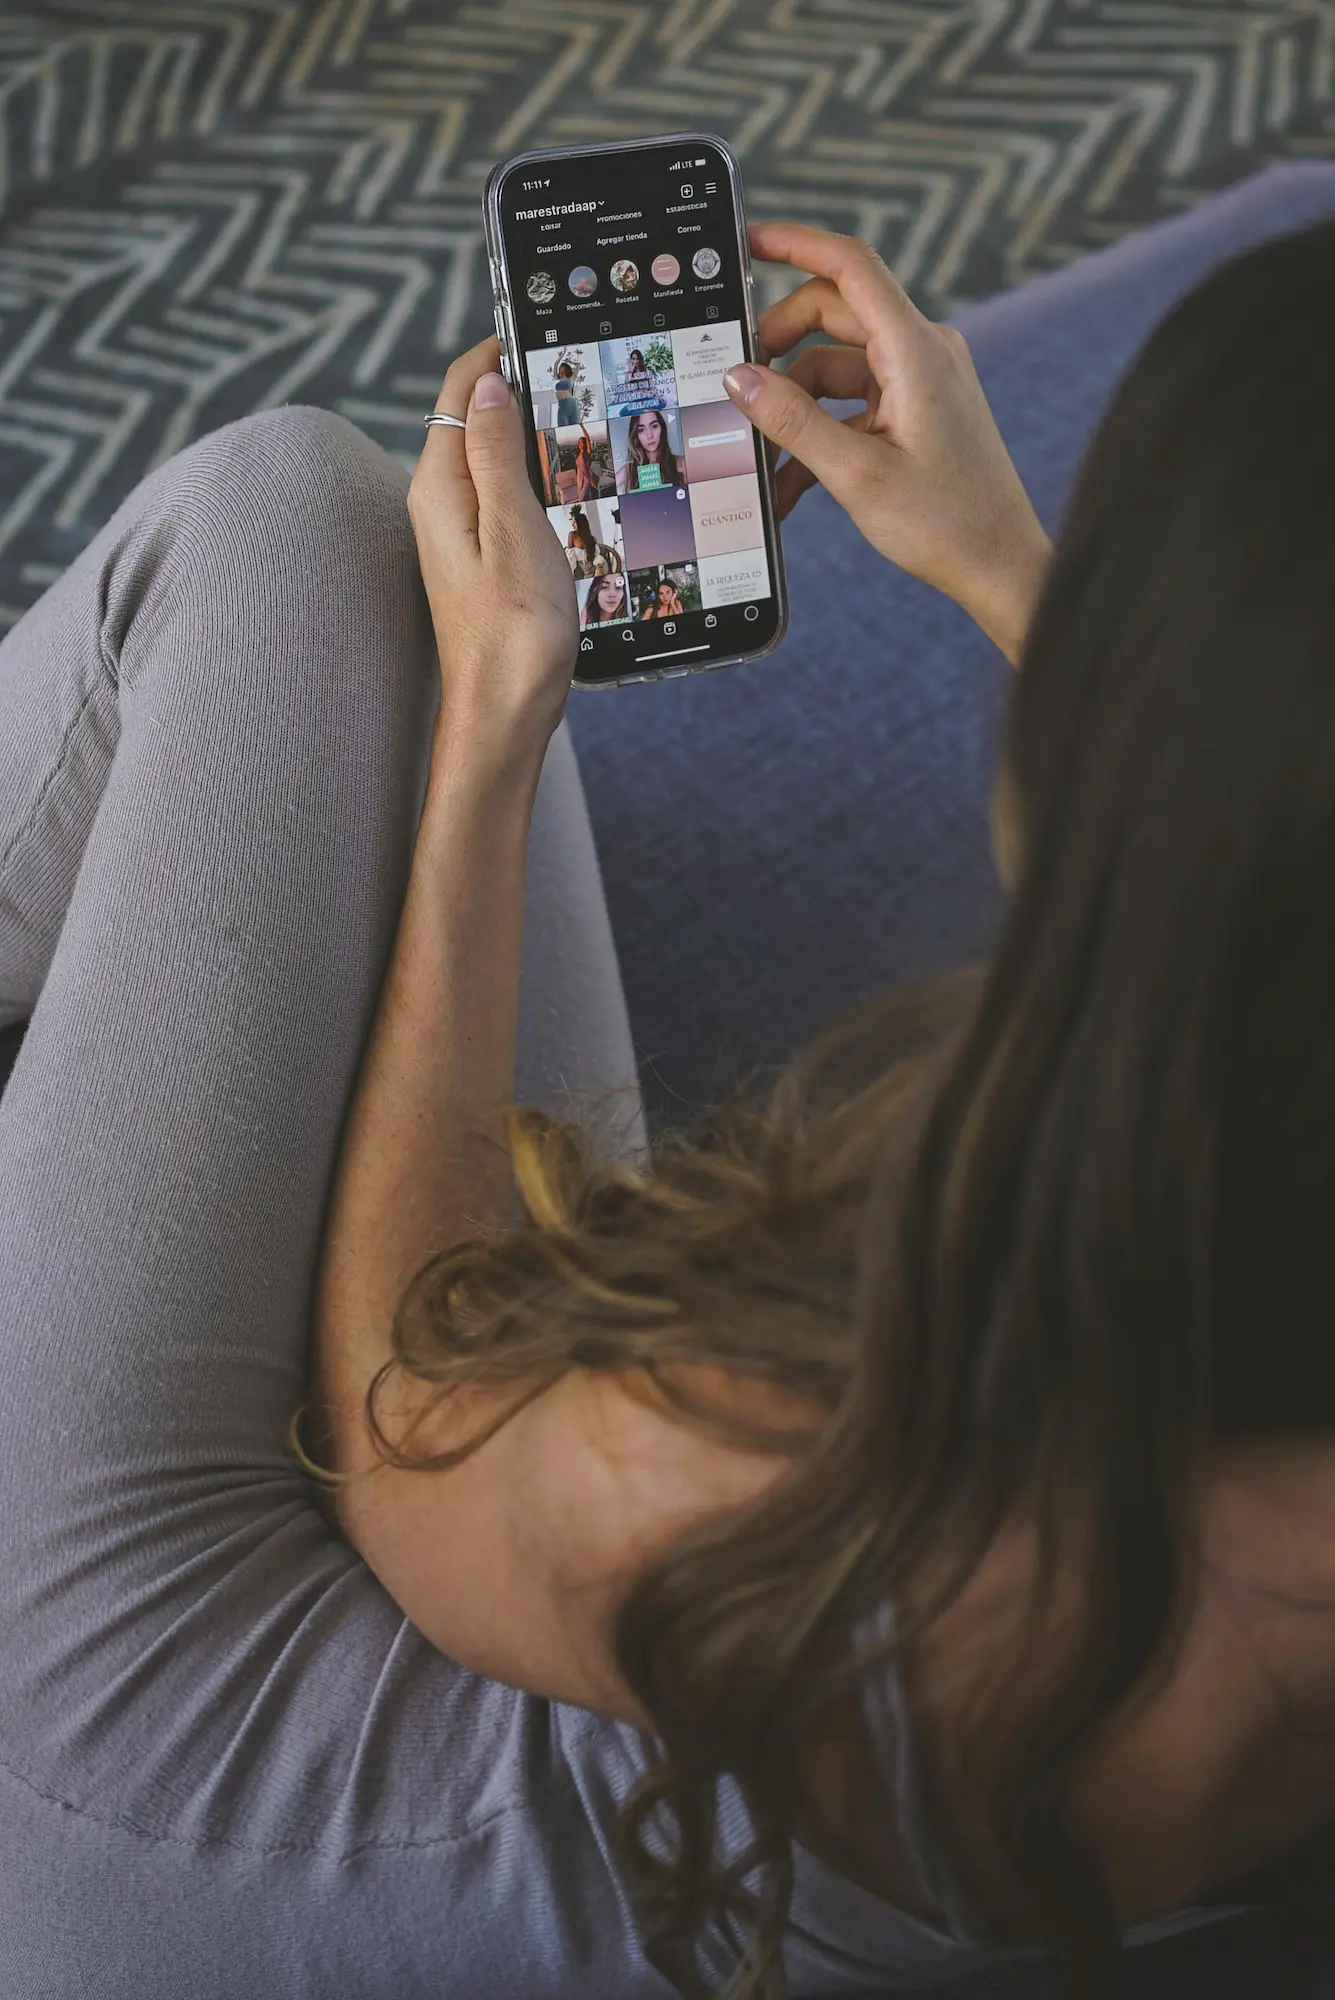
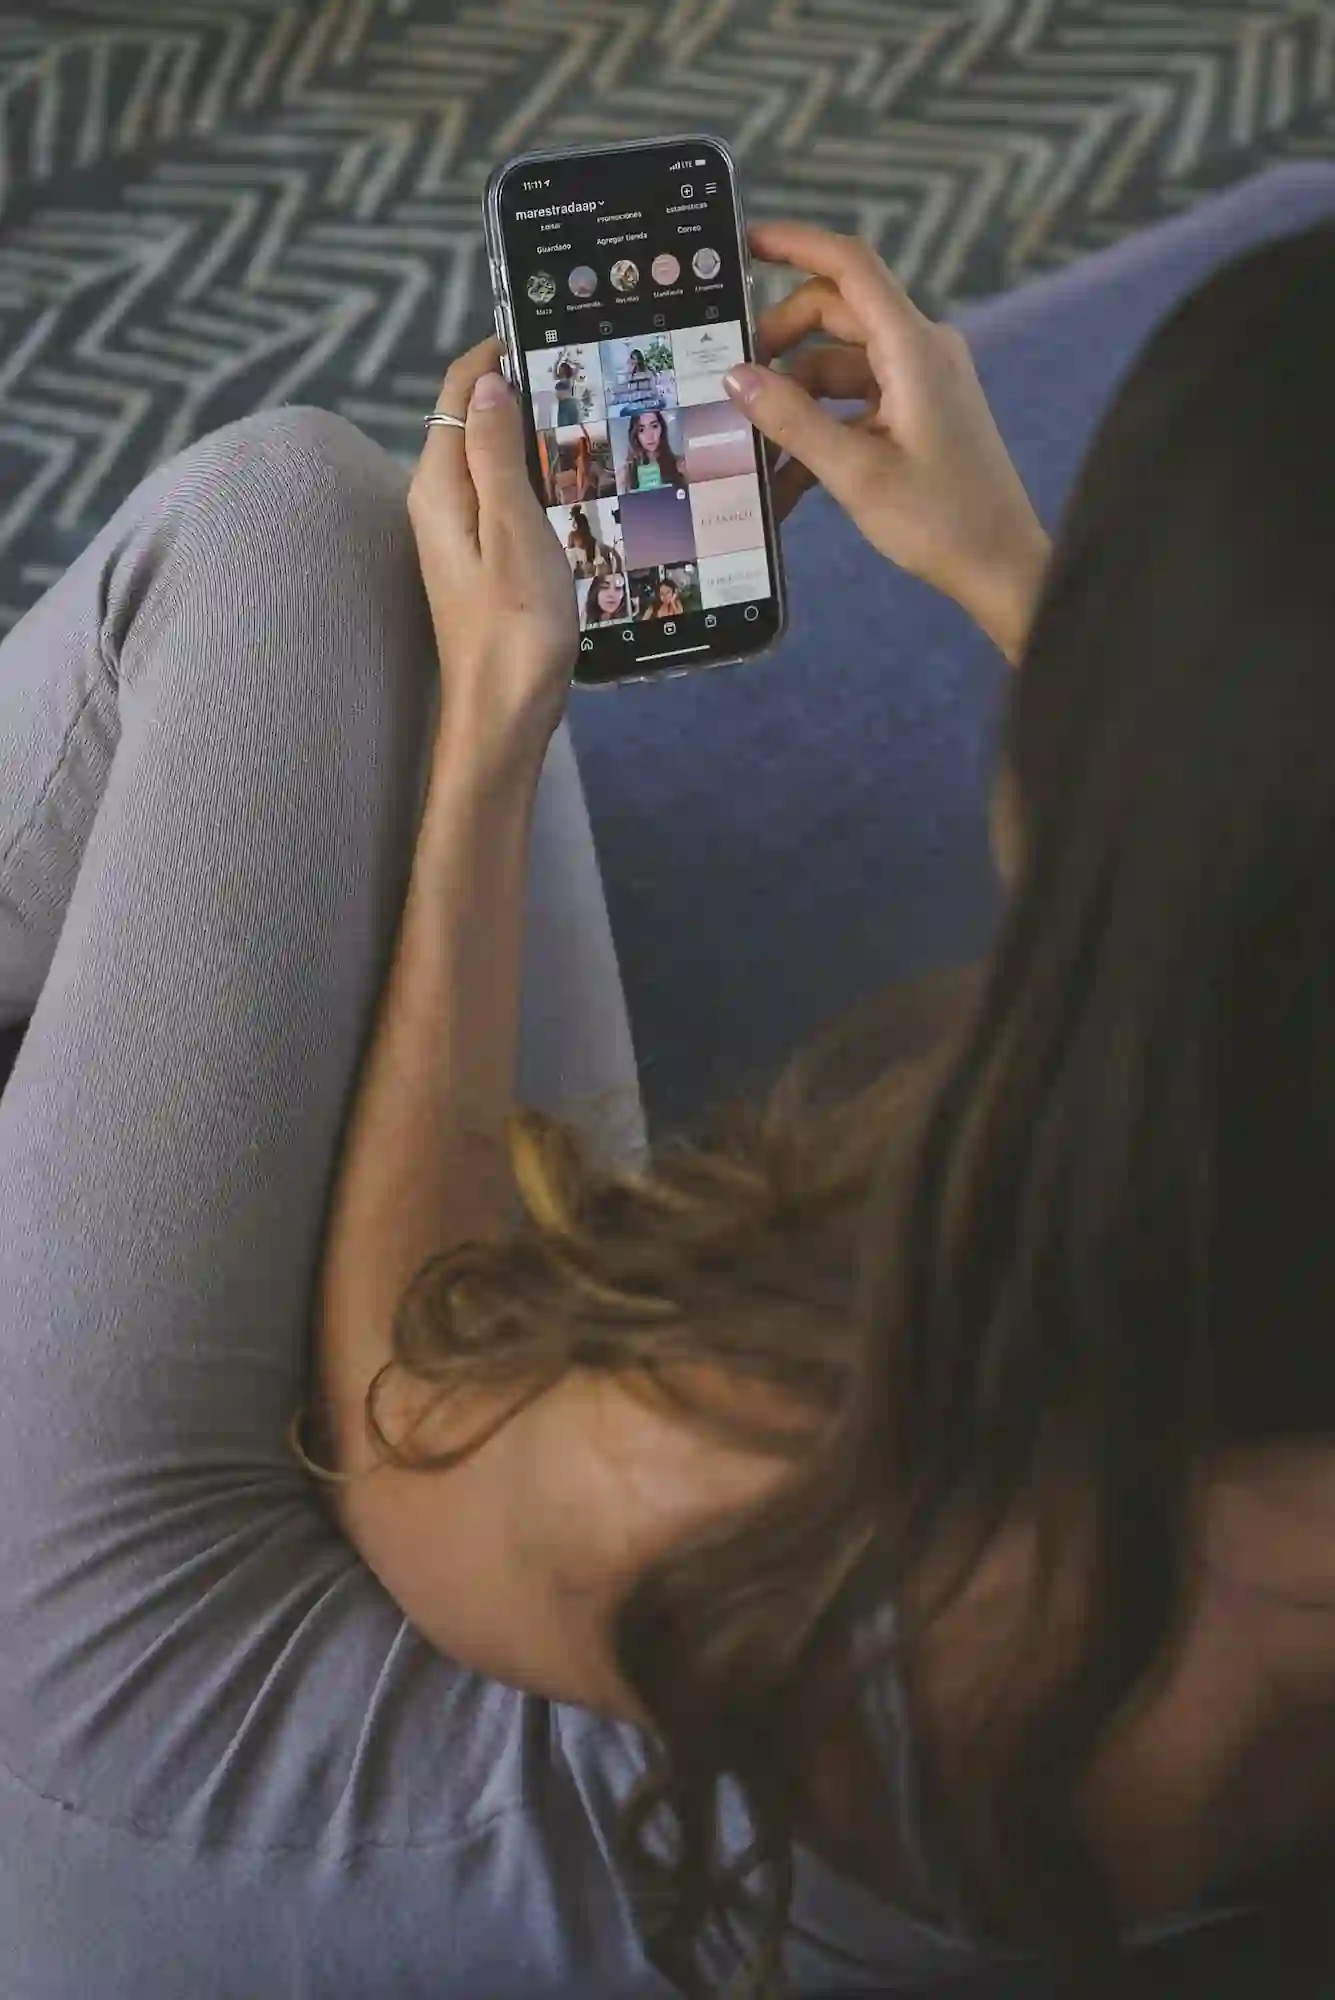
Reduced image sizes, added more to readme

Changed region(s): [[0.0, 0.217, 0.2764, 0.651], [0.3993, 0.124, 0.5221, 0.31], [0.3685, 0.093, 0.43, 0.186]]

diff --git a/README.md b/README.md
@@ -2,19 +2,19 @@
 <br>
 <img src="docs/index_image.png">
 <br>
-<h2 align="center">Welcome to the readme of Sunshine Minds, a website promoting strong mental health. My first individual project from Code Institute</ph2>
+<h2 align="center">Welcome to the readme of Sunshine Minds, a website promoting strong mental health. My first individual project from Code Institute</h2>
 <br>
 <h2 align="center"><a href="https://paulyduk.github.io/sunshine-minds/">Website Link</a> | <a href="https://github.com/users/PaulyDuk/projects/3">Project Board</a></h2>
 
-<h2>Introduction</h2>
+# Introduction
 
 Sunshine Minds is my first individually assessed project developed as part of the Code Institute Full Stack Software Developer Bootcamp. This will cover the skills I have covered so far whcih consists of HTML, CSS and Bootstrap, with the use of AI to generate code and assist with debugging.
 
-<h2>Project Outline</h2>
+### Project Outline
 
 The purpose of this website is to raise mental health awareness and what a user can do to improve that via various means, such as physical activity, balanced and healthy died and sleep improvment. Although a base of hints and tips will be included here additional resources will be linked for the user to explore further
 
-<h4>Key Objectives:</h4>
+### Key Objectives:
 
 - A clean and easy to navigate website that is responsive in design.
 - Provide mental health information to the user.
@@ -25,7 +25,7 @@ The purpose of this website is to raise mental health awareness and what a user 
 # Table of Contents
 # User Stories
 
-<h3>User Stories- Must Have's</h3>
+### User Stories- Must Have's
 
 As a Site User, I want to navigate easily through the website so that I can find the information I need.
 
@@ -38,23 +38,23 @@ As a site user I would like to see affirmitive quotes for inspiriation.
 As a site user I would like to contact the site directly for further information.
 
 
-<h3>User Stories - Should Have's</h3>
+### User Stories - Should Have's
 
 As a user I would like to know what additional resources are available to me.
 
 As a user I would like to know if there are any information that could help me in the moment if I am struggling with my mental health
 
-<h2>UX/UI Design</h2>
+# UX/UI Design
 
-<h3>Colour Design</h3>
+### Colour Design
 
 Given the name of Sunshine Minds I initially decided to go for a blue (simulating the sea) and yellow/orange (simulate the sun) colour scheme. However my initially choices were hard to read and when tested with the webaim.org contrast checker were failing to pass. As such the final colours were tweaked from this and now pass the contrast checker fully. I also believe the colours now look much better and still invite a calming response, with blue backgrounds with a yellow text. I also decided to use a white font in the darker blue navigation and footers for a better contrast and to stand out, as well as not overuse the yellow font throughout the scheme.
 
-<h3>Fonts</h3>
+### Fonts
 
 I decided on two fonts for this project, both sourced from Google Fonts, which was Dancing Script for the headings and Raleway for the body text. I found the Dancing Script font to be playful and simulated cursive handwriting well whereas the body front of Raleway was easily legible for the bulk of the body text. I like the difference between the two and that this helped break up the sections nicely.
 
-<h3>Images</h3>
+### Images
 
 I initially decided to go against using AI for the images as I thought people would be able to relate more to real life images. All images are royalty free from pexels.com and show the situation regarding to the card it is describing. These were later resized and optimised to the web using squoosh.app, A really handy free online tool to do so. I had also initially decided to include logos on the resources page but decided against this, as the colours of the logos did not sit well with my chosen design theme.
 
@@ -62,11 +62,11 @@ The hero image has a gradient applied to allow the text to be legible. My initia
 
 I also decided to add a small image from font-awesome.com for each card for a quick visual respresentation of what the card details would include. I also decided to swap the image between the top of the bottom of the cards to make the site more visually appealing and break up the sections.
 
-<h2>Wireframes</h2>
-<h2>Features</h2>
-<h2>AI implementation</h2>
-<h2>Testing and Validation</h2>
-<h2>Credits</h2>
+# Wireframes
+# Features
+# AI implementation
+# Testing and Validation
+# Credits
 
 - Code Insitute - For providing the training to build this website
 - Bootstrap - For the responsive site layout
